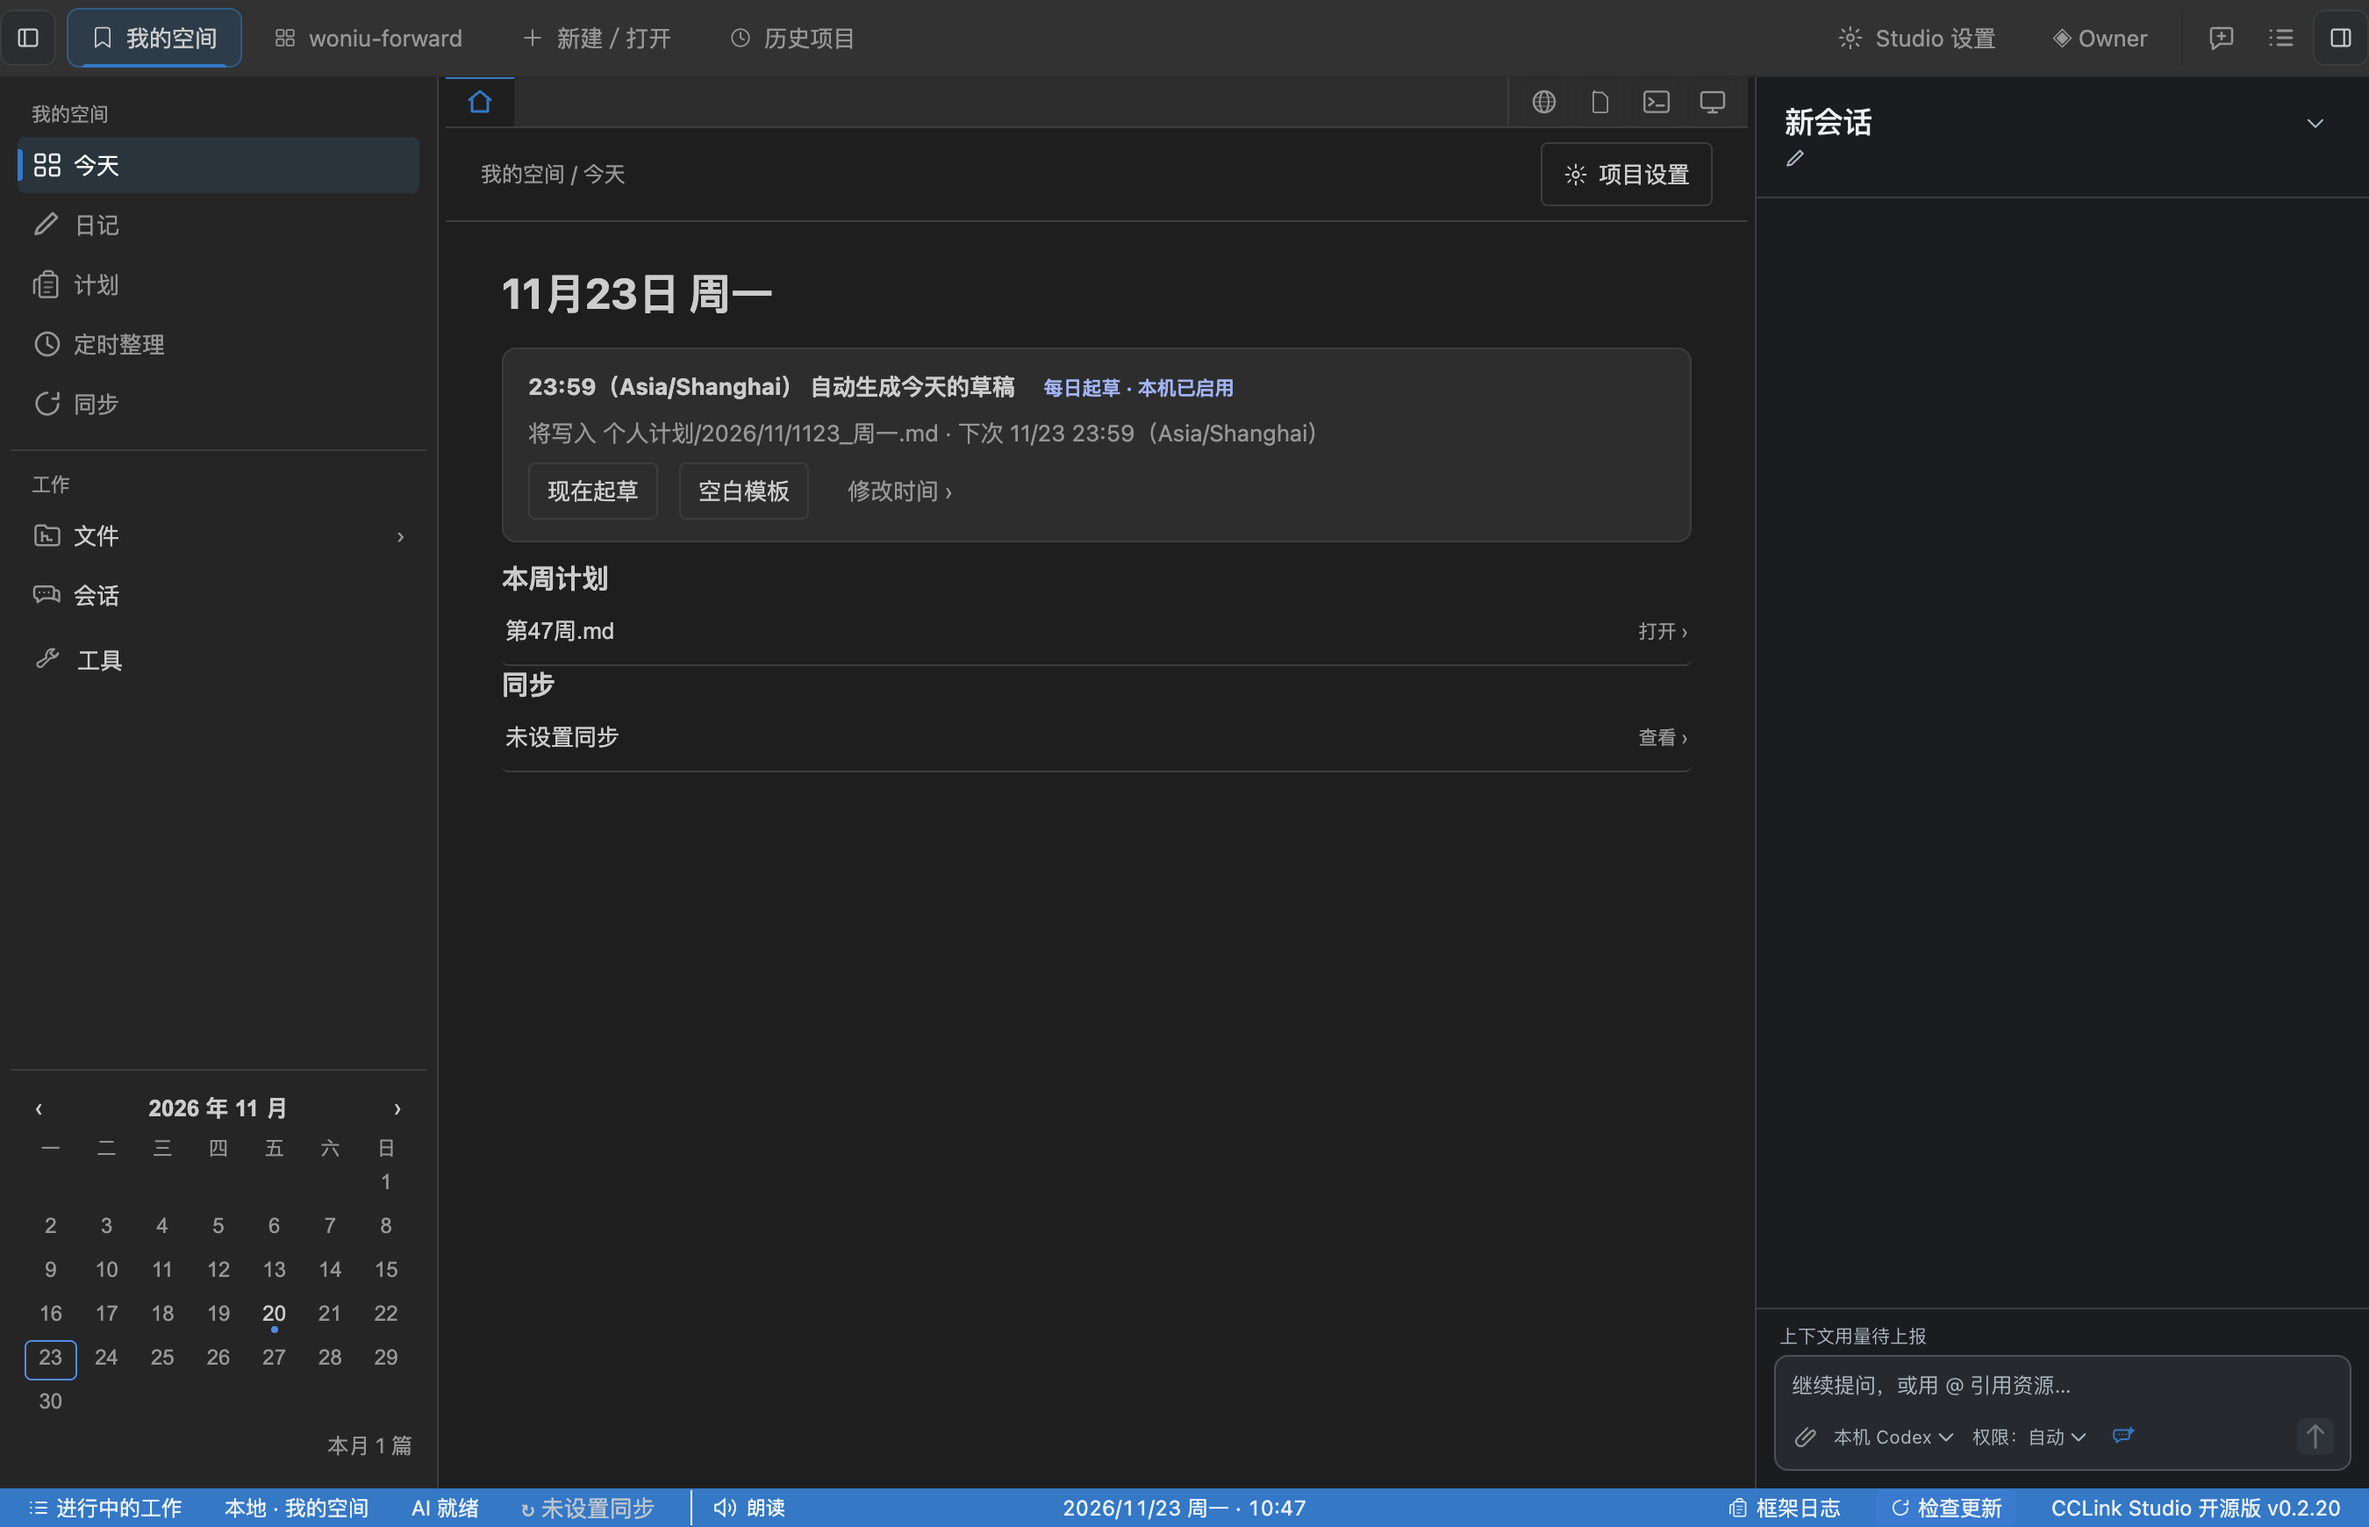
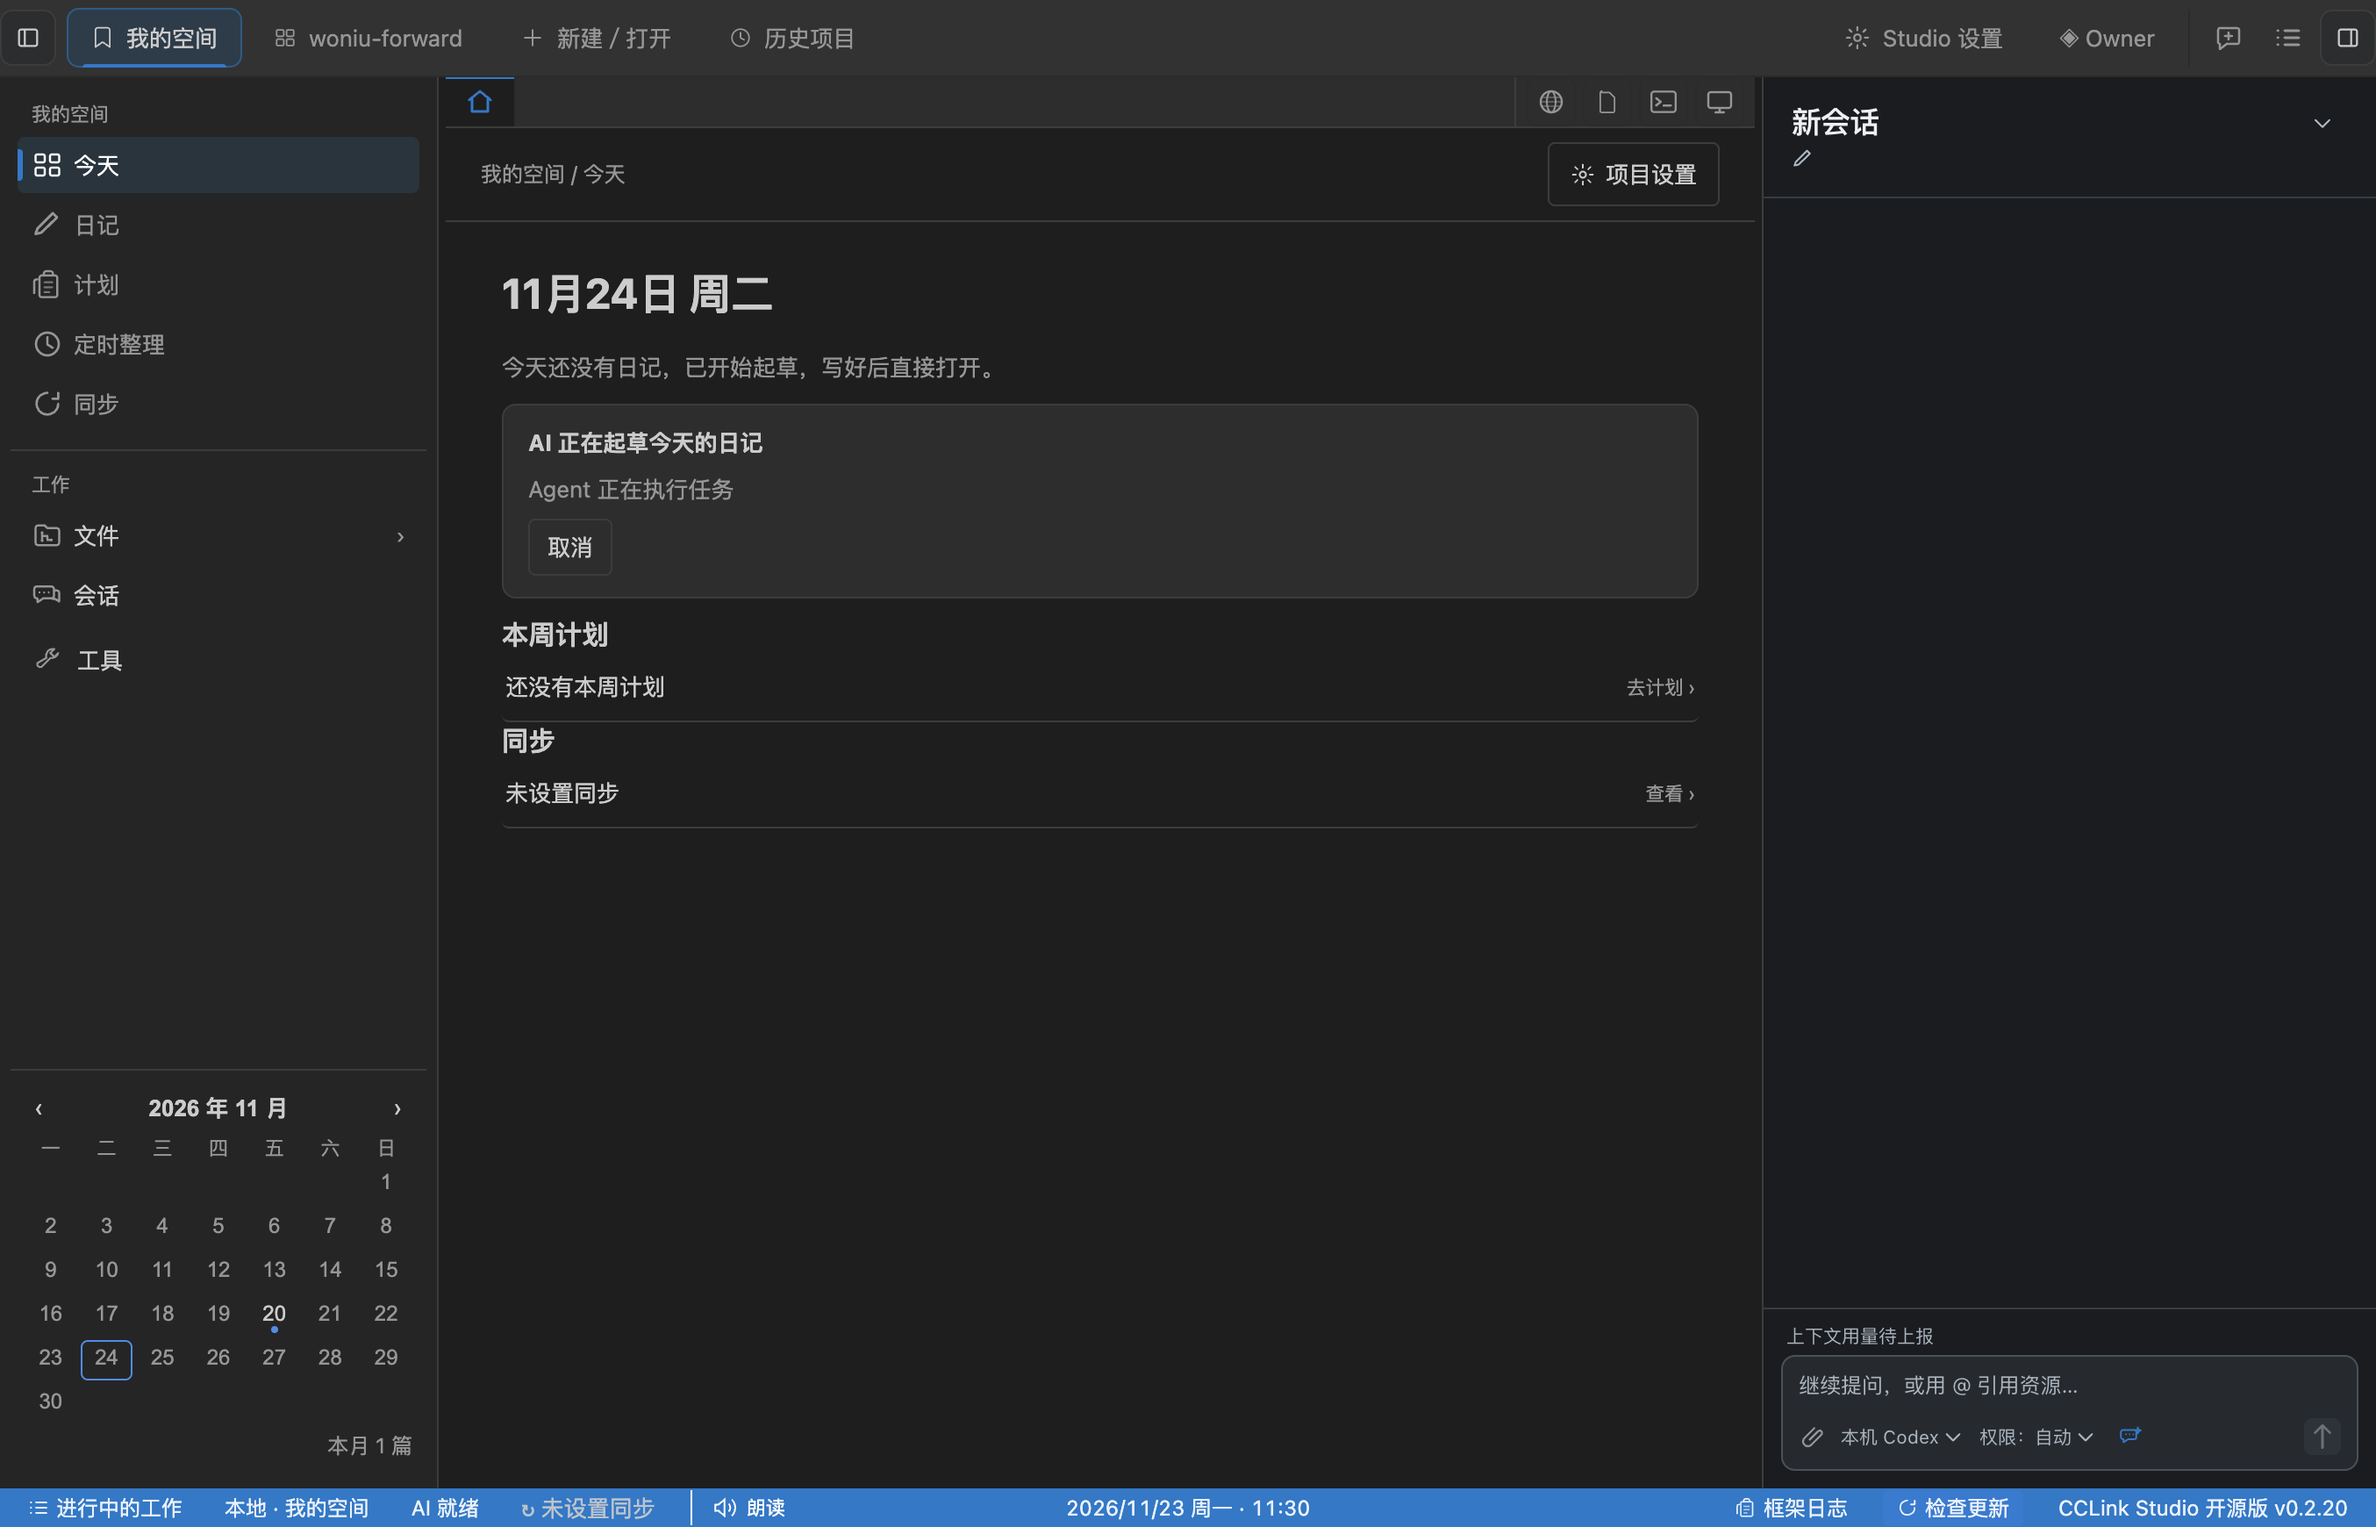
Open today's diary on entry even before the scheduled draft time
Entering 今天 without a diary for today now drafts it right away, or creates it from
the blank template when AI or the draft task is unavailable, and opens it for editing;
the page no longer just waits for the scheduled time. 本周计划 now shows only this
week's plan instead of the most recently modified weekly file.

diff --git a/src/renderer/src/features/workspace-open/PersonalDiaryHome.tsx b/src/renderer/src/features/workspace-open/PersonalDiaryHome.tsx
@@ -10,6 +10,7 @@ import { DiaryImportPage } from './DiaryImport'
 import { ConversationMarkdown } from '../../components/common/ConversationMarkdown'
 import { useDiaryNavigation } from './personal-diary-navigation'
 import { useCallback, useEffect, useRef, useState } from 'react'
+import { isoWeek } from '@shared/scheduled-task/scheduled-task-file-name'
 import {
   defaultDiaryDirectory,
   defaultDiaryTimezone,
@@ -290,24 +291,36 @@ export function PersonalDiaryHome(): React.ReactElement {
     Boolean(todayFile && state.files[todayFile.path]?.dirty),
   )
   const syncText = useDiarySyncLabel(source?.workspacePath ?? null)
-  // This week's plan for the home row: the newest file in <year>/周计划 (as the file shortcuts).
+  // This week's plan for the home row: only a file that belongs to the current week
+  // (its Monday's date, 第N周 or YYYY-WNN), from <diary>/<year>/周计划 or <plans>/周/<year>.
   const [weekPlan, setWeekPlan] = useState<string | null>(null)
   useEffect(() => {
     if (!source) return
     let alive = true
-    void window.cclinkStudio.fs
-      .readDir(`${source.workspacePath}/${source.directory}/${day.year}/周计划`)
-      .catch(() => [])
-      .then((entries) => {
-        const newest = entries
-          .filter((entry) => entry.type === 'file' && entry.name.endsWith('.md'))
-          .sort((a, b) => b.modifiedAt - a.modifiedAt)[0]
-        if (alive) setWeekPlan(newest?.name ?? null)
-      })
+    const today = new Date(Date.UTC(Number(day.year), Number(day.month) - 1, Number(day.day)))
+    const monday = new Date(today)
+    monday.setUTCDate(today.getUTCDate() - ((today.getUTCDay() + 6) % 7))
+    const mondayText = monday.toISOString().slice(0, 10)
+    const week = isoWeek(today)
+    const matches = (name: string): boolean =>
+      name.endsWith('.md') &&
+      (name.includes(mondayText) ||
+        name.includes(`${week.year}-W${week.week}`) ||
+        new RegExp(`第0?${Number(week.week)}周`).test(name))
+    const planRoot = config?.settings.diary?.planDirectory ?? '计划'
+    void Promise.all(
+      [
+        `${source.workspacePath}/${source.directory}/${day.year}/周计划`,
+        `${source.workspacePath}/${planRoot}/周/${week.year}`,
+      ].map((dir) => window.cclinkStudio.fs.readDir(dir).catch(() => [])),
+    ).then((lists) => {
+      const found = lists.flat().find((entry) => entry.type === 'file' && matches(entry.name))
+      if (alive) setWeekPlan(found?.name ?? null)
+    })
     return () => {
       alive = false
     }
-  }, [source, day.year, revision])
+  }, [source, day.year, day.month, day.day, revision, config?.settings.diary?.planDirectory])
   useEffect(() => {
     setPreviewPath('')
   }, [page, todayKey])
@@ -368,33 +381,38 @@ export function PersonalDiaryHome(): React.ReactElement {
     act(createBuiltIns)
   }, [busy, source, page, ownerPath, fixedPath, daily])
   // Today's draft did not happen (missed or failed): the first visit today starts it once.
+  // Entering 今天 always ends in today's file: with no file yet, draft it now (any time of
+  // day, not only after the scheduled time); without AI or a draft task, create it from the
+  // blank template. A draft that is running is awaited; one the user cancelled falls back
+  // to the blank template instead of starting again.
   const autoDraftKey = useRef('')
   useEffect(() => {
-    if (busy || !source || page !== '今天' || today.length || !daily) return
-    if (!daily.activation.enabled || aiProblem || daily.definition.schedule.kind !== 'daily') return
-    // A draft the user cancelled is not restarted automatically.
-    if (dailyRun && !['failed', 'interrupted', 'missed'].includes(dailyRun.status)) return
-    const nowText = new Intl.DateTimeFormat('en-GB', {
-      timeZone: daily.definition.schedule.timezone,
-      hour: '2-digit',
-      minute: '2-digit',
-      hour12: false,
-    }).format(new Date(clock))
-    if (nowText < daily.definition.schedule.time) return
+    if (busy || !source || page !== '今天' || today.length) return
+    if (dailyRun && ['queued', 'running'].includes(dailyRun.status)) return
+    // My Space creates its built-in tasks first; wait for them.
+    if (!daily && ownerPath === fixedPath) return
     const key = `cclink.diary.autoDraft.${source.projectId}.${todayKey}`
     if (autoDraftKey.current === key) return
     autoDraftKey.current = key
+    const canDraft =
+      daily &&
+      daily.activation.enabled &&
+      !aiProblem &&
+      (!dailyRun || ['failed', 'interrupted', 'missed'].includes(dailyRun.status))
+    let drafted = false
     try {
-      if (window.localStorage.getItem(key)) return
+      drafted = Boolean(window.localStorage.getItem(key))
       window.localStorage.setItem(key, '1')
     } catch {
       /* storage unavailable: once per mount */
     }
     act(async () => {
-      await draftNow()
-      setNotice('今天的草稿未按时生成，已自动开始起草。')
+      if (canDraft && !drafted) {
+        await draftNow()
+        setNotice('今天还没有日记，已开始起草，写好后直接打开。')
+      } else await prepareBlank()
     })
-  }, [busy, source, page, today.length, daily, dailyRun, aiProblem, todayKey, clock])
+  }, [busy, source, page, today.length, daily, dailyRun, aiProblem, todayKey, ownerPath, fixedPath])
   const cancelDraft = async (): Promise<void> => {
     if (!source || !dailyRun) return
     await window.cclinkStudio.scheduledTasks.cancelRun({
